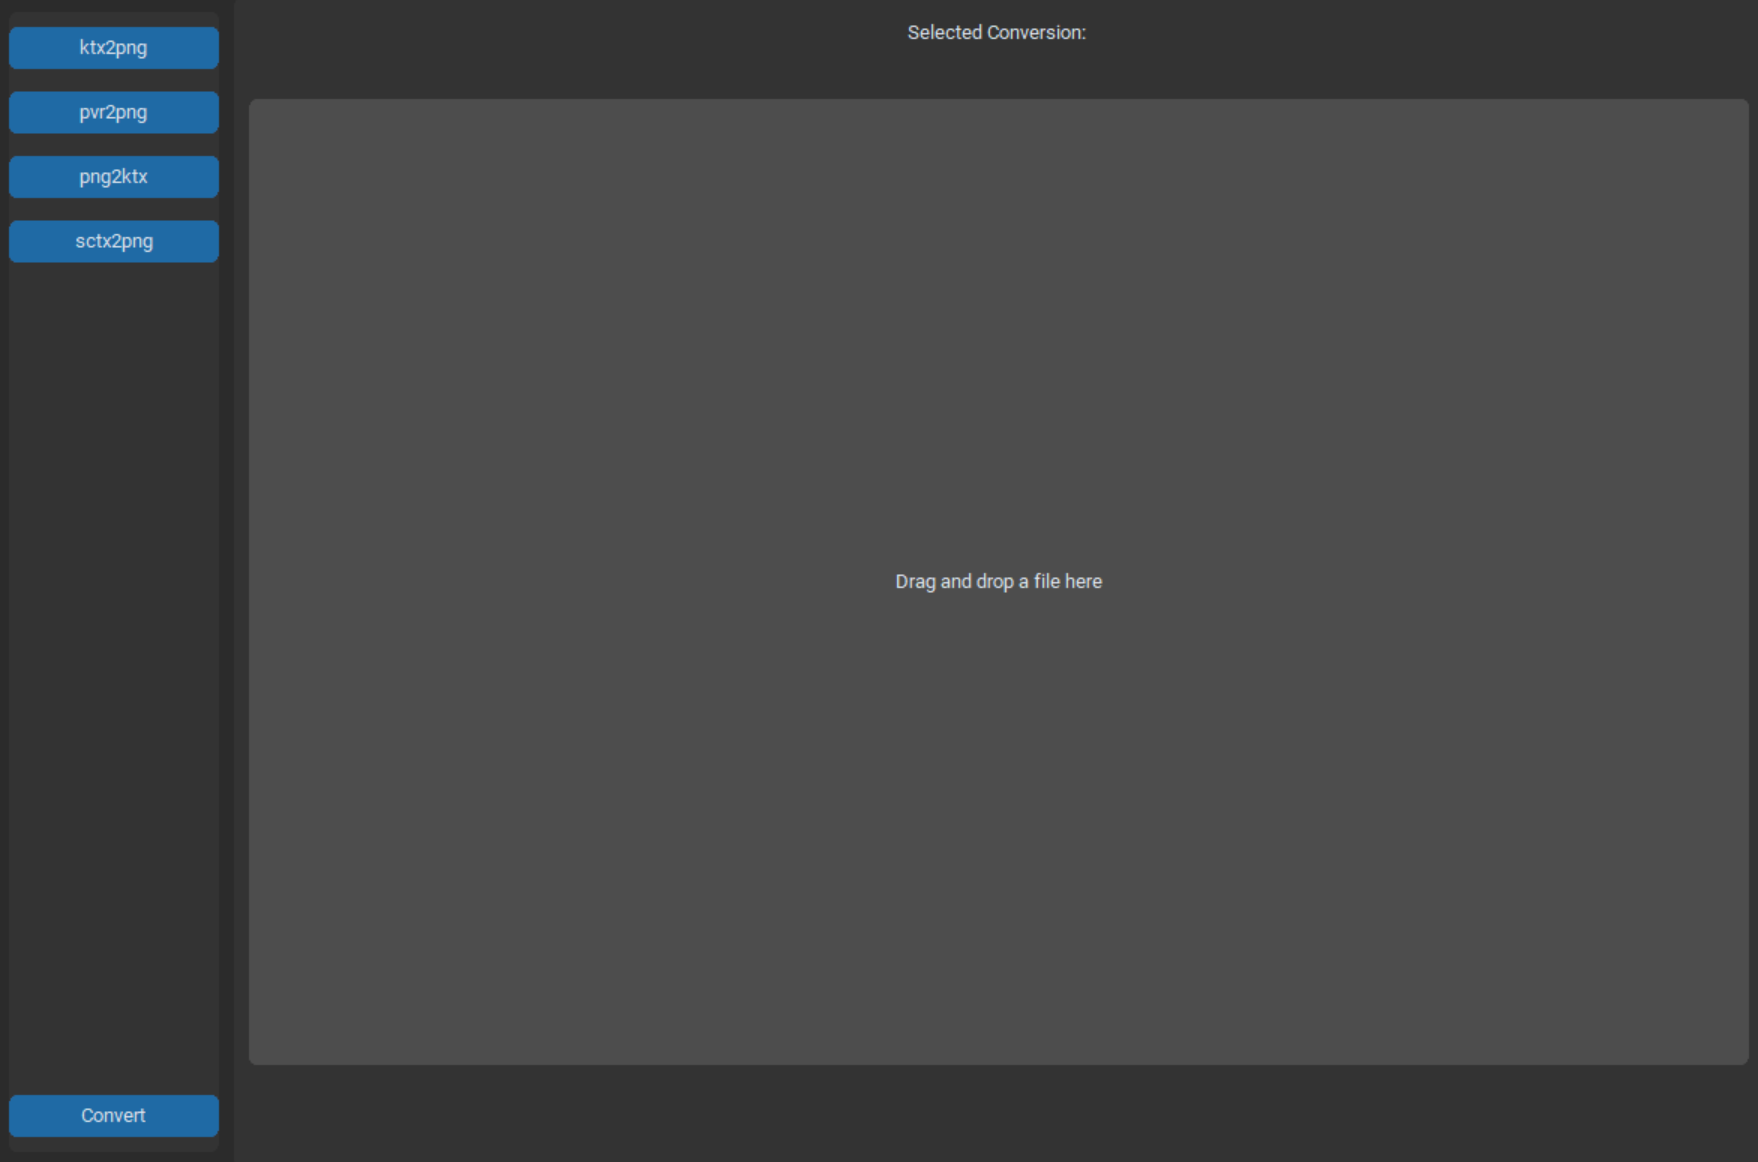
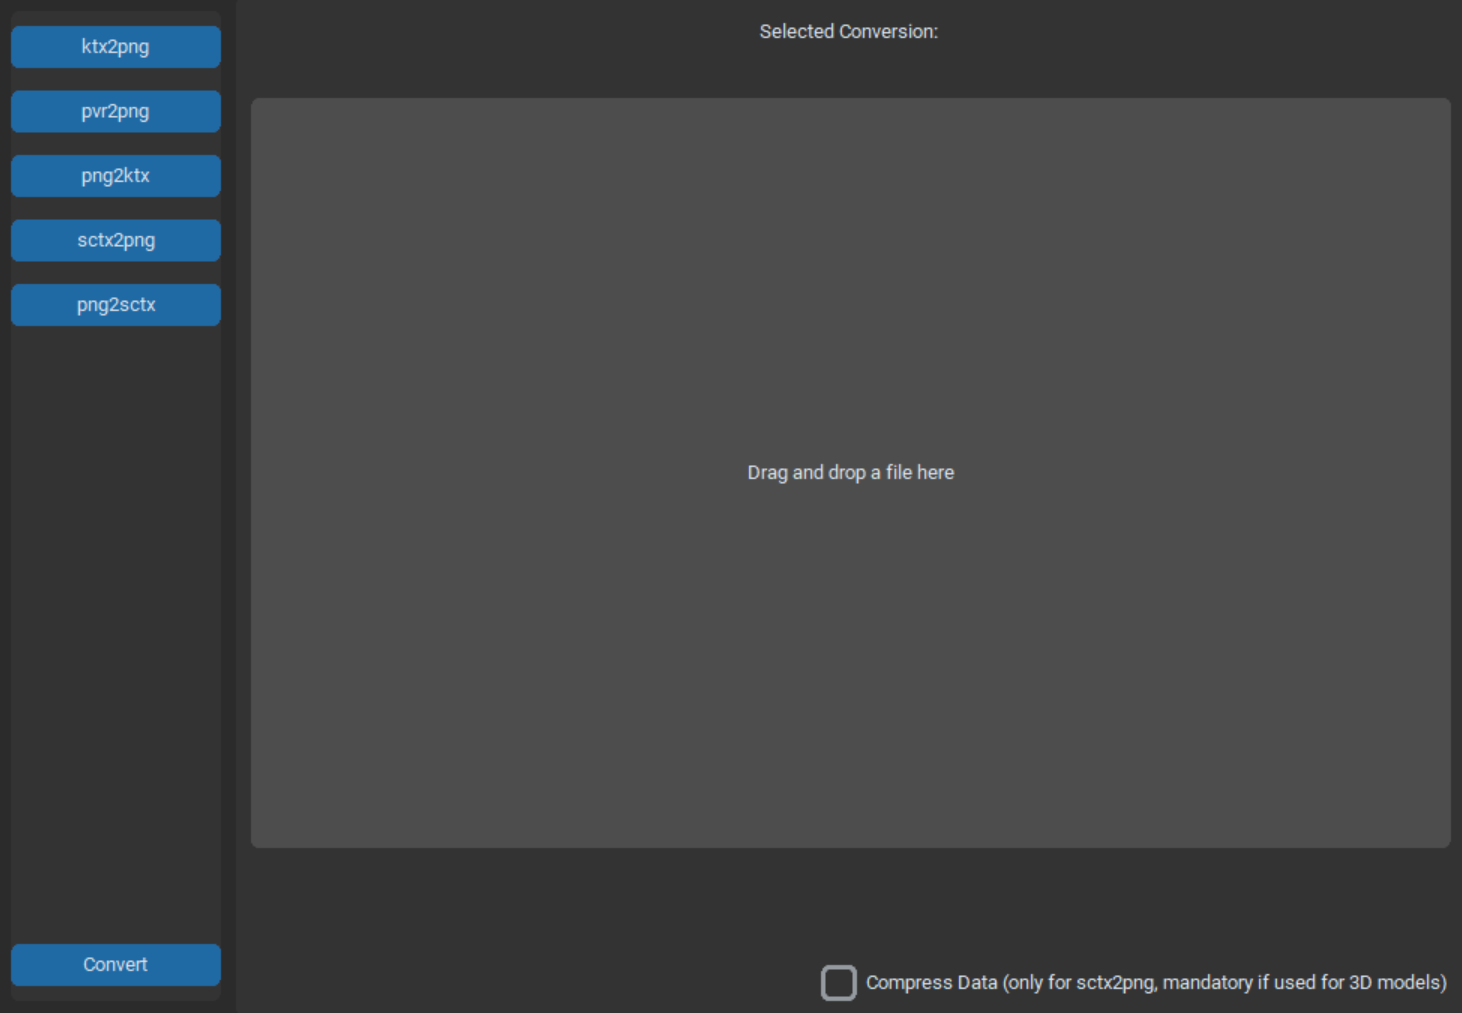
Full SCTX support added
Added full SCTX support alongside a few improvements here and there

Changed region(s): [[0.0, 0.0, 1.0, 0.9793], [0.554, 0.9487, 1.0, 1.0], [0.4925, 0.459, 0.6464, 0.5202]]

diff --git a/main.py b/main.py
@@ -14,17 +14,18 @@ def drop(event):
         global selected_file_path
         selected_file_path = file_path
         file_path_label.configure(text=f"Dropped file: {file_path}")
-        
+
 def run_other_script():
     if selected_variable and selected_file_path:
-        print(f"Running with {selected_variable} and {selected_file_path}")
+        print(f"[INFO] Running with {selected_variable} and {selected_file_path}")
         
         file_name_with_ext = os.path.basename(selected_file_path)
         file_name = os.path.splitext(file_name_with_ext)[0]
         file_extension = os.path.splitext(selected_file_path)[1]
         path = os.path.dirname(selected_file_path)
+
         
-        if file_extension == '.sctx':
+        if file_extension == ".sctx":
             script_directory = os.path.join(os.path.dirname(__file__), "scripts")
             script_path = os.path.join(script_directory, 'SctxConverter.exe')
             command = f'{script_path} decode {selected_file_path}'
@@ -34,25 +35,55 @@ def run_other_script():
                 if result.stderr:
                     print(result.stderr.decode())
             except subprocess.CalledProcessError as e:
-                print(f"Something went wrong : {e}")
+                print(f"[ERROR] Something went wrong : {e}")
+                
+        elif selected_variable == ".sctx" and sctx_compression == False :
+            script_directory = os.path.join(os.path.dirname(__file__), "scripts")
+            script_path = os.path.join(script_directory, 'SctxConverter.exe')
+            selected_file_path_without_extension = os.path.splitext(selected_file_path)[0]
+            command = f'{script_path} encode {selected_file_path_without_extension}.json'
+            try:
+                result = subprocess.run(command, check=True, shell=True, stdout=subprocess.PIPE, stderr=subprocess.PIPE)
+                print(result.stdout.decode())
+                if result.stderr:
+                    print(result.stderr.decode())
+            except subprocess.CalledProcessError as e:
+                print(f"[ERROR] Something went wrong : {e}")
+                
+        elif selected_variable == ".sctx" and sctx_compression == True :
+            script_directory = os.path.join(os.path.dirname(__file__), "scripts")
+            script_path = os.path.join(script_directory, 'SctxConverter.exe')
+            selected_file_path_without_extension = os.path.splitext(selected_file_path)[0]
+            command = f'{script_path} encode {selected_file_path_without_extension}.json -c'
+            try:
+                result = subprocess.run(command, check=True, shell=True, stdout=subprocess.PIPE, stderr=subprocess.PIPE)
+                print(result.stdout.decode())
+                if result.stderr:
+                    print(result.stderr.decode())
+            except subprocess.CalledProcessError as e:
+                print(f"[ERROR] Something went wrong : {e}")
 
         else:
             script_directory = os.path.join(os.path.dirname(__file__), "scripts")
             script_path = os.path.join(script_directory, 'conversion.py')
 
         result = subprocess.run([script_path, selected_file_path, path, file_name, selected_variable])
-        
+
         if result.returncode == 0:
-            print("Script executed")
+            print("[INFO] Script executed")
         else:
-            print(f"Error running script: {result.returncode}")
+            print(f"[ERROR] Error running script: {result.returncode}")
     else:
-        print("Make sure a conversion method and a file are selected.")
+        print("[INFO] Make sure a conversion method and a file are selected.")
+
+def update_checkbox_state():
+    global sctx_compression
+    sctx_compression = bool(checkbox_var.get())
 
 root = TkinterDnD.Tk()
 root.title("SimpleTexTool GUI")
 
-root.geometry("1200x800")
+root.geometry("1000x700")
 
 ctk.set_appearance_mode("dark")
 ctk.set_default_color_theme("blue")
@@ -72,8 +103,11 @@ button2.pack(pady=(10, 5))
 button3 = ctk.CTkButton(left_frame, text="png2ktx", command=lambda: update_variable("png2ktx", ".ktx"))
 button3.pack(pady=(10, 5))
 
-button4 = ctk.CTkButton(left_frame, text="sctx2png", command=lambda: update_variable("scxt2png", ".png"))
-button4.pack(pady=(10, 20))
+button4 = ctk.CTkButton(left_frame, text="sctx2png", command=lambda: update_variable("sctx2png", ".png"))
+button4.pack(pady=(10, 5))
+
+button5 = ctk.CTkButton(left_frame, text="png2sctx", command=lambda: update_variable("png2sctx", ".sctx"))
+button5.pack(pady=(10, 20))
 
 execute_button = ctk.CTkButton(left_frame, text="Convert", command=run_other_script)
 execute_button.pack(side="bottom", pady=10)
@@ -95,6 +129,10 @@ drop_area.dnd_bind('<<Drop>>', drop)
 
 file_path_label = ctk.CTkLabel(right_frame, text="")
 file_path_label.pack(pady=10)
+
+checkbox_var = ctk.IntVar()
+checkbox = ctk.CTkCheckBox(right_frame, text="Compress Data (only for sctx2png, mandatory if used for 3D models)    ", variable=checkbox_var, command=update_checkbox_state)
+checkbox.pack(anchor="e", pady=10)
 
 selected_variable = ""
 selected_file_path = ""

diff --git a/scripts/conversion.py b/scripts/conversion.py
@@ -3,6 +3,7 @@ import subprocess
 import os
 
 def main():
+    
     full_file_path = sys.argv[1]
     file_path = sys.argv[2]
     file_name = sys.argv[3]
@@ -18,6 +19,7 @@ def main():
         o_d = " -o "
 
     command = "PVRTexToolCLI.exe -i " + full_file_path + o_d + file_path + "/" + file_name + selected_variable + end
+    
     
     try:
         result = subprocess.run(command, check=True)

diff --git a/README.md b/README.md
@@ -34,9 +34,30 @@ You should see this interface popping up :
 In order to convert a file, just simply drag and drop it in the "drop area", select a conversion method and click convert.
 
 Your converted file should appear in the folder it originated from.
+
+## Features
+
+- KTX to PNG
+- PVR to PNG
+- PNG to KTX
+- SCTX to PNG
+- PNG to SCTX
+
+## About SCTX textures
+
+SCTX is a new format created by SC and it is now implemented and almost all of their games. If you want more precisions about this format go read [SCTX conversion's README](https://github.com/Daniil-SV/SCTX-Converter/blob/main/README.md) but what you need to understand is that sctx2png gives out two files : 
+
+- The actual texture in the form a PNG file
+- A JSON file handling properties
+
+If all you want is the texture, you can delete the JSON file but what you need to know is that the JSON file is **REQUIRED** if you want to convert the PNG texture back to SCTX.
+
+To convert back the PNG texture to SCTX you need to select the "png2sctx" option, drag and drop either the PNG or JSON file and click convert. You obviously need to have both the PNG and JSON file in the same directory.
+
+If the SCTX file is going to be used for a 3D model you **NEED** to enable the "Compress Data" option or your texture won't work.
+
 ## Limitations
 
- - Only supports ktx2png, png2ktx, pvr2png and sctx2png
  - Does NOT support multiple file drop
  - Based on [PVRTexToolCLI](https://developer.imaginationtech.com/solutions/pvrtextool/) and [SCXT-Converter](https://github.com/Daniil-SV/SCTX-Converter) so it only works on Windows
 
@@ -44,6 +65,7 @@ Your converted file should appear in the folder it originated from.
 ## Known Issues
 
 - After the installation of PVRTexTool you might have an error that it's not in the PATH when converting. To resolve that just add the "scripts" folder to the system or user PATH
+- Everytime you do any conversion with SCTX files you'll get a help screen that pop up in the console. Just ignore it
 
 ## Credits
 
